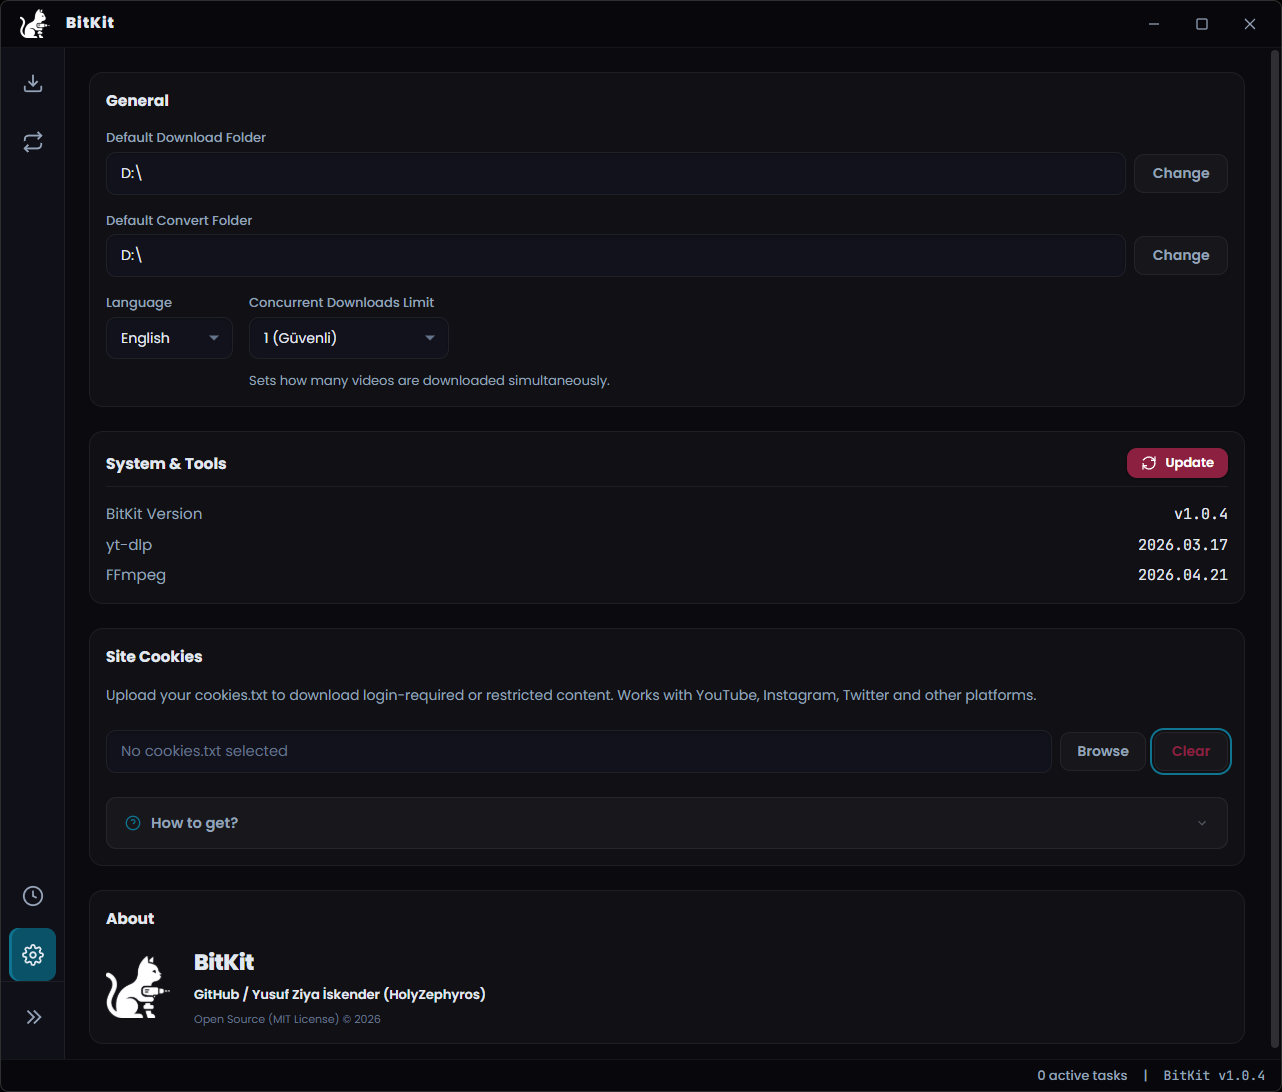
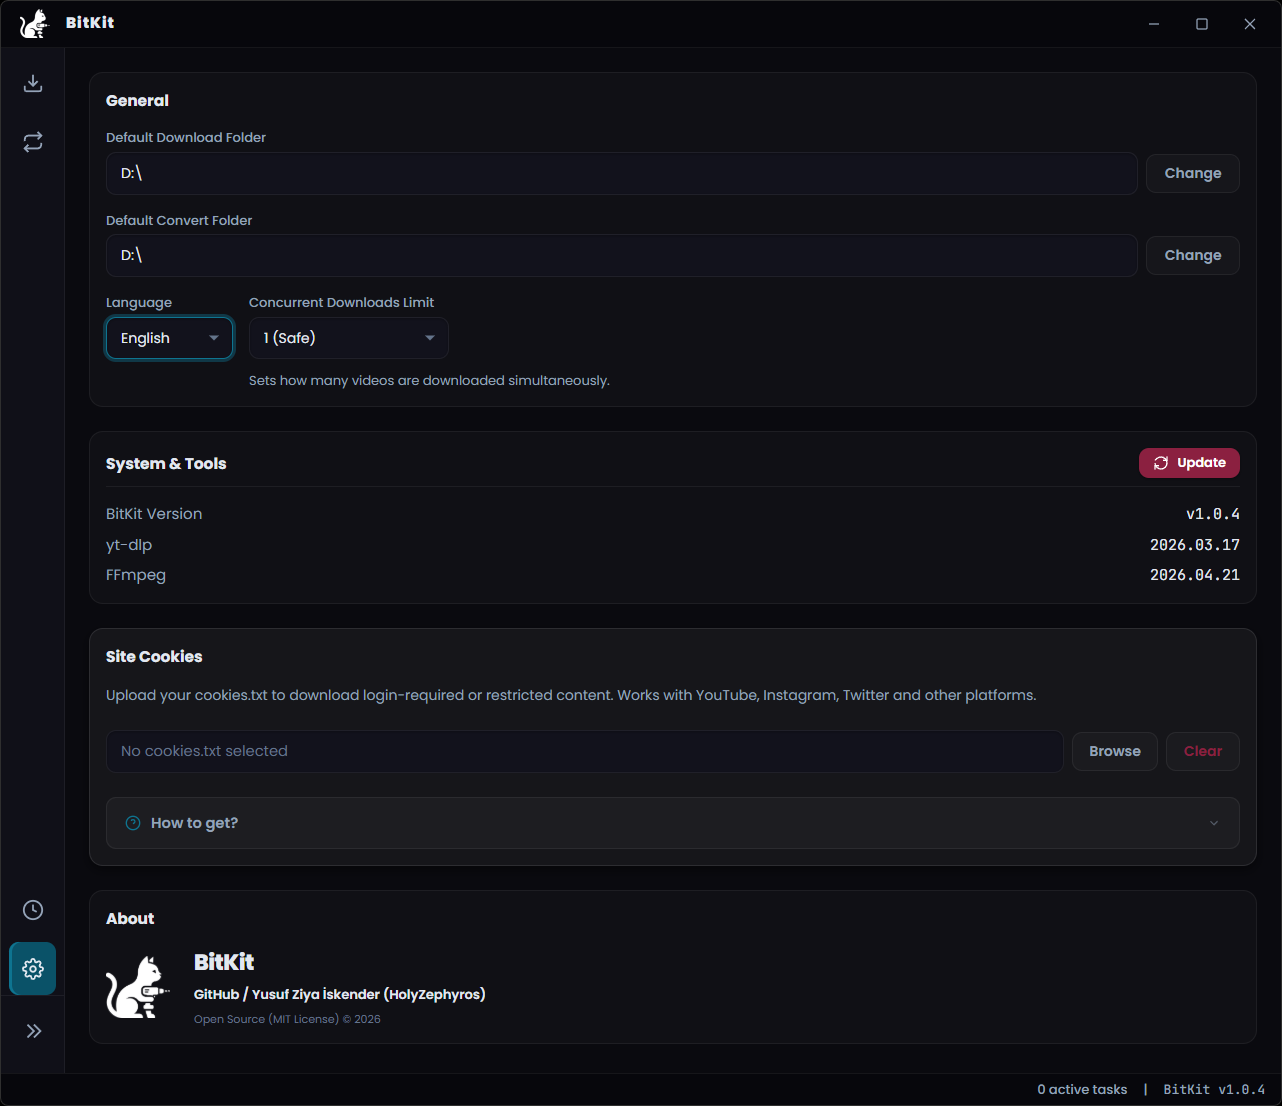
feat: implement localization system for settings and add new languages support

diff --git a/src/views/settings.html b/src/views/settings.html
@@ -44,7 +44,7 @@
 <label class="input-label" data-i18n="settings.concurrentDownloads">Eşzamanlı İndirme Limiti</label>
 <div class="select-wrapper" style="max-width:200px">
 <select class="select" id="settingsConcurrentDownloads">
-<option value="1">1 (Güvenli)</option>
+<option value="1" data-i18n="settings.concurrentSafe">1 (Safe)</option>
 <option value="2">2</option>
 <option value="3">3</option>
 <option value="4">4</option>
